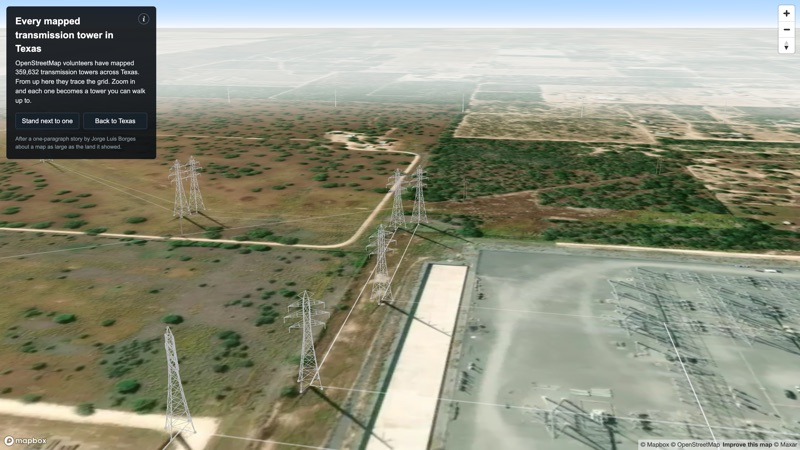
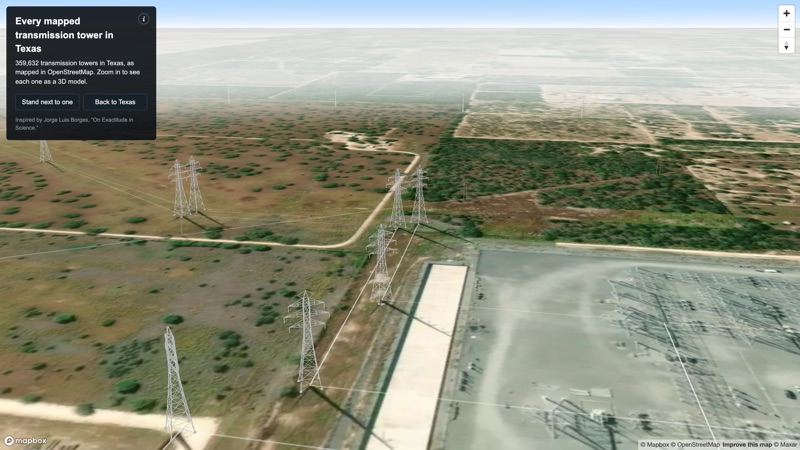
Day 14: plainer panel and gallery text, new image

Changed region(s): [[0.0, 0.1244, 0.2188, 0.3733]]

diff --git a/docs/map-challenge-2026/maps/day14/index.html b/docs/map-challenge-2026/maps/day14/index.html
@@ -63,15 +63,12 @@
   <div id="panel">
     <button class="info" type="button" title="About this map" aria-label="About this map">i</button>
     <h1>Every mapped transmission tower in Texas</h1>
-    <p>
-      OpenStreetMap volunteers have mapped 359,632 transmission towers across Texas. From up here they trace the grid. 
-      Zoom in and each one becomes a tower you can walk up to.
-    </p>
+    <p>359,632 transmission towers in Texas, as mapped in OpenStreetMap. Zoom in to see each one as a 3D model.</p>
     <div class="btns">
       <button id="visit" type="button">Stand next to one</button>
       <button id="home" type="button">Back to Texas</button>
     </div>
-    <p class="src">After a one-paragraph story by Jorge Luis Borges about a map as large as the land it showed.</p>
+    <p class="src">Inspired by Jorge Luis Borges, “On Exactitude in Science.”</p>
   </div>
   <div id="about">
     <h2>About this map</h2>

diff --git a/map-challenge-2026/maps/day14/index.html b/map-challenge-2026/maps/day14/index.html
@@ -63,15 +63,12 @@
   <div id="panel">
     <button class="info" type="button" title="About this map" aria-label="About this map">i</button>
     <h1>Every mapped transmission tower in Texas</h1>
-    <p>
-      OpenStreetMap volunteers have mapped 359,632 transmission towers across Texas. From up here they trace the grid. 
-      Zoom in and each one becomes a tower you can walk up to.
-    </p>
+    <p>359,632 transmission towers in Texas, as mapped in OpenStreetMap. Zoom in to see each one as a 3D model.</p>
     <div class="btns">
       <button id="visit" type="button">Stand next to one</button>
       <button id="home" type="button">Back to Texas</button>
     </div>
-    <p class="src">After a one-paragraph story by Jorge Luis Borges about a map as large as the land it showed.</p>
+    <p class="src">Inspired by Jorge Luis Borges, “On Exactitude in Science.”</p>
   </div>
   <div id="about">
     <h2>About this map</h2>
